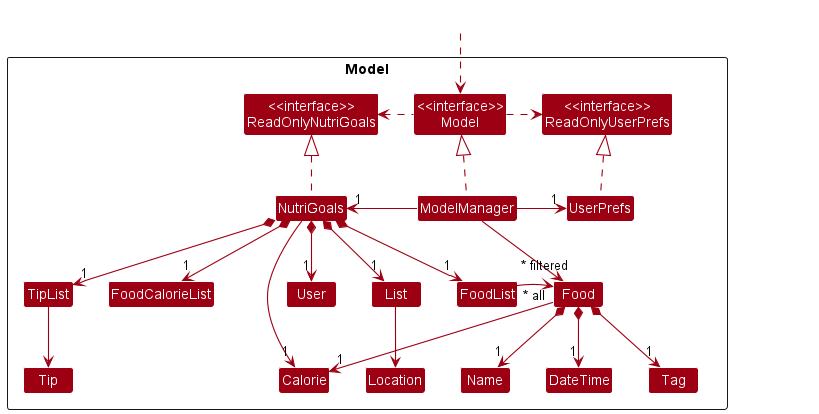
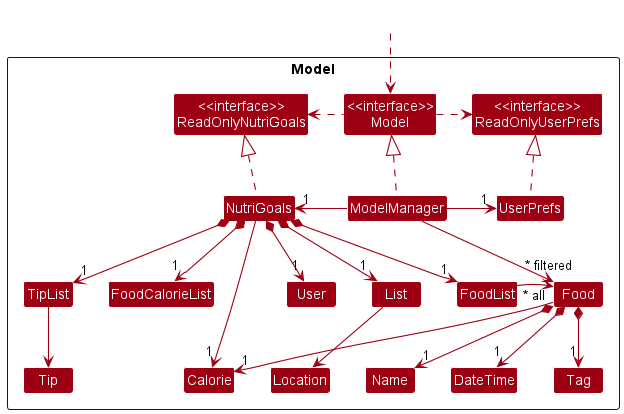
Resize DG images

diff --git a/docs/DeveloperGuide.md b/docs/DeveloperGuide.md
@@ -97,11 +97,11 @@ The sections below give more details of each component.
 ![Structure of the UI Component](images/UiClassDiagram.png)
 
 The UI consists of a `MainWindow` that is made up of the following parts:
-* `ProgressBarController`
-* `StatusBarFooter`
 * `ResultDisplay`
 * `CommandBox`
-* `HelpWindow`
+* * `HelpWindow`
+* `ProgressBarController`
+* `StatusBarFooter`
 * `FoodListPanel`
 
 All these, including the `MainWindow`, inherit from the abstract `UiPart` class which captures
@@ -158,7 +158,7 @@ How the parsing works:
 
 **API** : [`Model.java`](https://github.com/AY2223S1-CS2103T-T17-2/tp/blob/master/src/main/java/seedu/nutrigoals/model/Model.java)
 
-<img src="images/ModelClassDiagram.png" width="450" />
+<img src="images/ModelClassDiagram.png" width="550" />
 
 
 The `Model` component,
